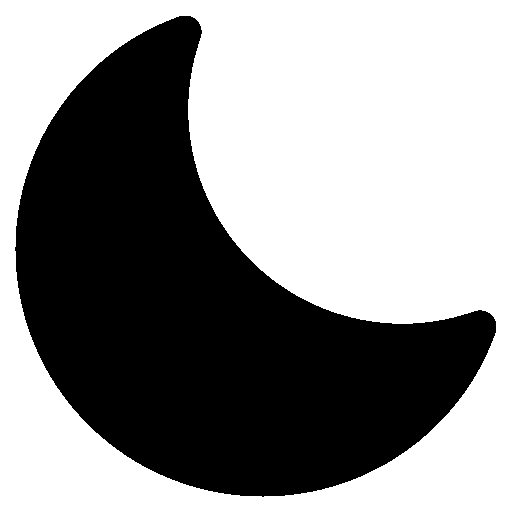
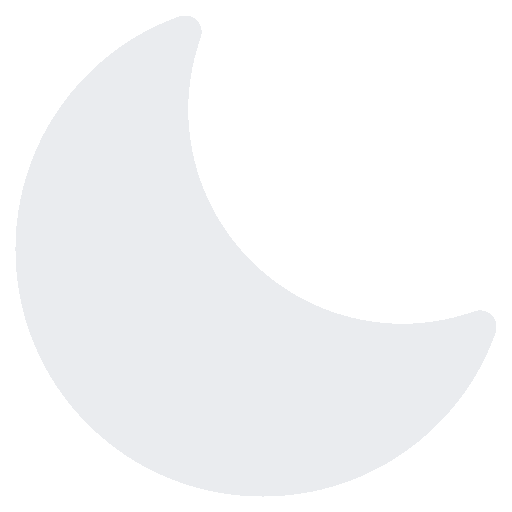
fix) 테마변경 버튼 App -> Header 이동

diff --git a/rud_boot/src/main/rud_react/src/App.js b/rud_boot/src/main/rud_react/src/App.js
@@ -12,11 +12,7 @@ import Login from './views/login';
 // component-items
 import Header from "./views/componentItems/header";
 import Log from "./views/components/log";
-import { lightTheme, darkTheme } from "./Theme.js";
-
-//image
-import modeChangeButtonW from "./assets/images/mode_changeW.png";
-import modeChangeButtonB from "./assets/images/mode_changeB.png";
+import { lightTheme, darkTheme } from "./Theme.js"
 
 function App() {
     // localStorage에서 초기값을 가져옵니노
@@ -64,18 +60,18 @@ function App() {
     // view
     return (
         <>
-            <Header logoutHandler={logoutHandler} loginState={loginState} setIsDarkMode={setIsDarkMode} isDarkMode={isDarkMode}/>
+            <Header logoutHandler={logoutHandler} loginState={loginState} setIsDarkMode={setIsDarkMode} isDarkMode={isDarkMode} toggleTheme={toggleTheme}/>
             <Routes>
                 <Route path='/login' element={loginState ? <Navigate to="/home" /> : <Login loginHandler={loginHandler} currentTheme={currentTheme} isDarkMode={isDarkMode}/>} />
                 <Route path='/home' element={loginState ? <Home userID={userID} loginState={loginState}  currentTheme={currentTheme}/> : <Navigate to="/login" />} />
                 <Route path="/log" element={loginState ? <Log userID={userID}  currentTheme={currentTheme}/> : <Navigate to="/login" />} />
                 <Route path="/" element={<Navigate to={loginState ? "/home" : "/login"} />} />
             </Routes>
-            {isDarkMode ? (
+            {/* {isDarkMode ? (
                 <img src={modeChangeButtonB} className="mode-change-button" onClick={toggleTheme}/>
             ):(
                 <img src={modeChangeButtonW} className="mode-change-button" onClick={toggleTheme}/>
-            )}
+            )} */}
         </>
     );
 }

diff --git a/rud_boot/src/main/rud_react/src/views/componentItems/header.jsx b/rud_boot/src/main/rud_react/src/views/componentItems/header.jsx
@@ -9,8 +9,10 @@ import '../../assets/css/componentItems/header.scss';
 
 //image
 import superAnt from '../../assets/images/ant_head.png';
+import modeChangeButtonW from "../../assets/images/mode_changeW.png";
+import modeChangeButtonB from "../../assets/images/mode_changeB.png";
 
-const Header = ({logoutHandler, loginState, isDarkMode}) => {
+const Header = ({logoutHandler, loginState, isDarkMode, toggleTheme}) => {
     const location = useLocation();
     const navigate = useNavigate();
     const isLoginPage = location.pathname === '/login' || location.pathname === '/signup';
@@ -38,6 +40,13 @@ const Header = ({logoutHandler, loginState, isDarkMode}) => {
                 {
                     !isLoginPage && (
                         <div className="header-right">
+                            <div className="mode-change-button">
+                            {isDarkMode ? (
+                                <img src={modeChangeButtonB} className="mode-change-button" onClick={toggleTheme}/>
+                            ):(
+                                <img src={modeChangeButtonW} className="mode-change-button" onClick={toggleTheme}/>
+                            )}
+                            </div>
                             <Link to={location.pathname === '/home' ? '/log' : '/home'}>
                                 <div className='button'>
                                     <h5>{location.pathname === '/home' ? '내 기록' : '홈'}</h5>

diff --git a/rud_boot/src/main/rud_react/src/assets/css/componentItems/header.scss b/rud_boot/src/main/rud_react/src/assets/css/componentItems/header.scss
@@ -46,9 +46,19 @@
         .header-right {
             display: flex;
             justify-content: flex-end;
+            align-items: center;
             width: auto;
             font-size: 18px;
             gap: 10px; 
+            
+            .mode-change-button {
+                width: 25px;
+                height: 25px;
+                cursor: pointer;
+                &:active {
+                transform: scale(0.95);
+                }
+            }
 
             .button {
                 display: flex;

diff --git a/rud_boot/src/main/rud_react/src/App.css b/rud_boot/src/main/rud_react/src/App.css
@@ -20,7 +20,7 @@ a { /*modal Gofullpage 하이퍼링크 */
   text-decoration: none; /* 밑줄 제거 */
 }
 
-.mode-change-button {
+/* .mode-change-button {
   position: fixed;
   bottom: 50px;
   right: 50px;
@@ -31,4 +31,4 @@ a { /*modal Gofullpage 하이퍼링크 */
   &:active {
     transform: scale(0.95);
   }
-}
+} */
